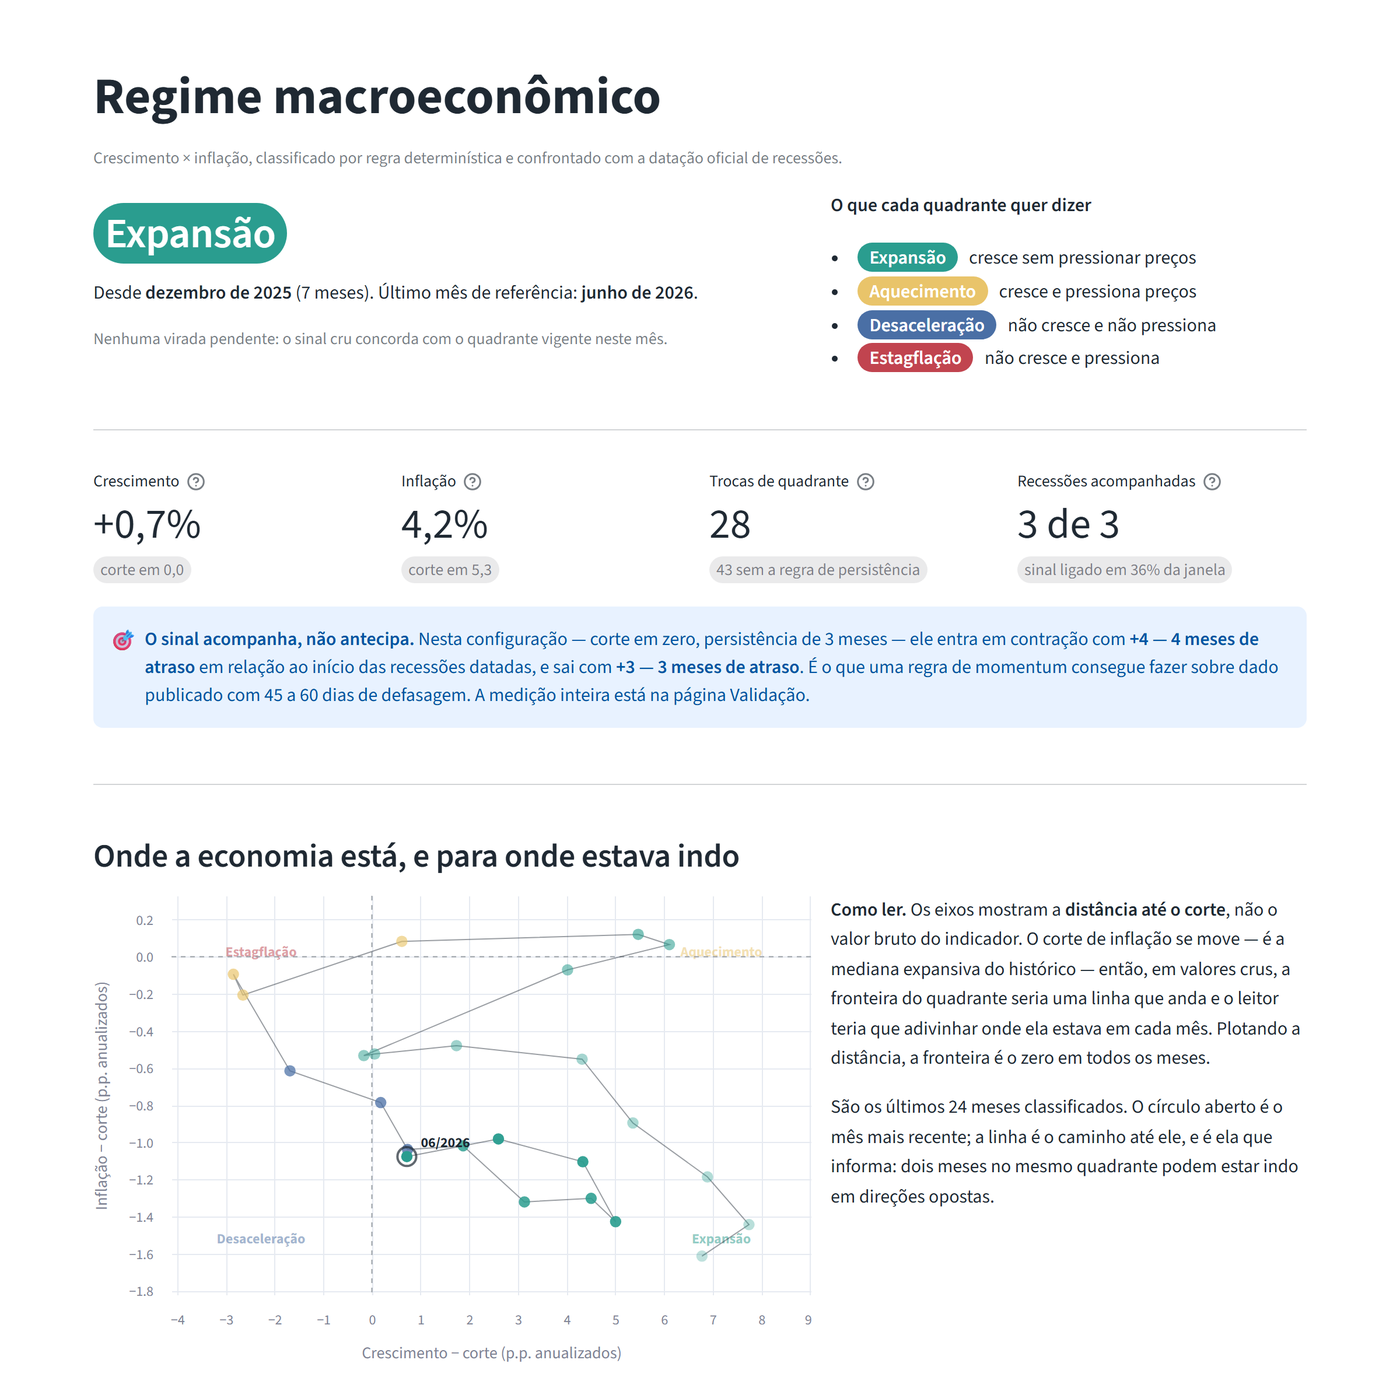
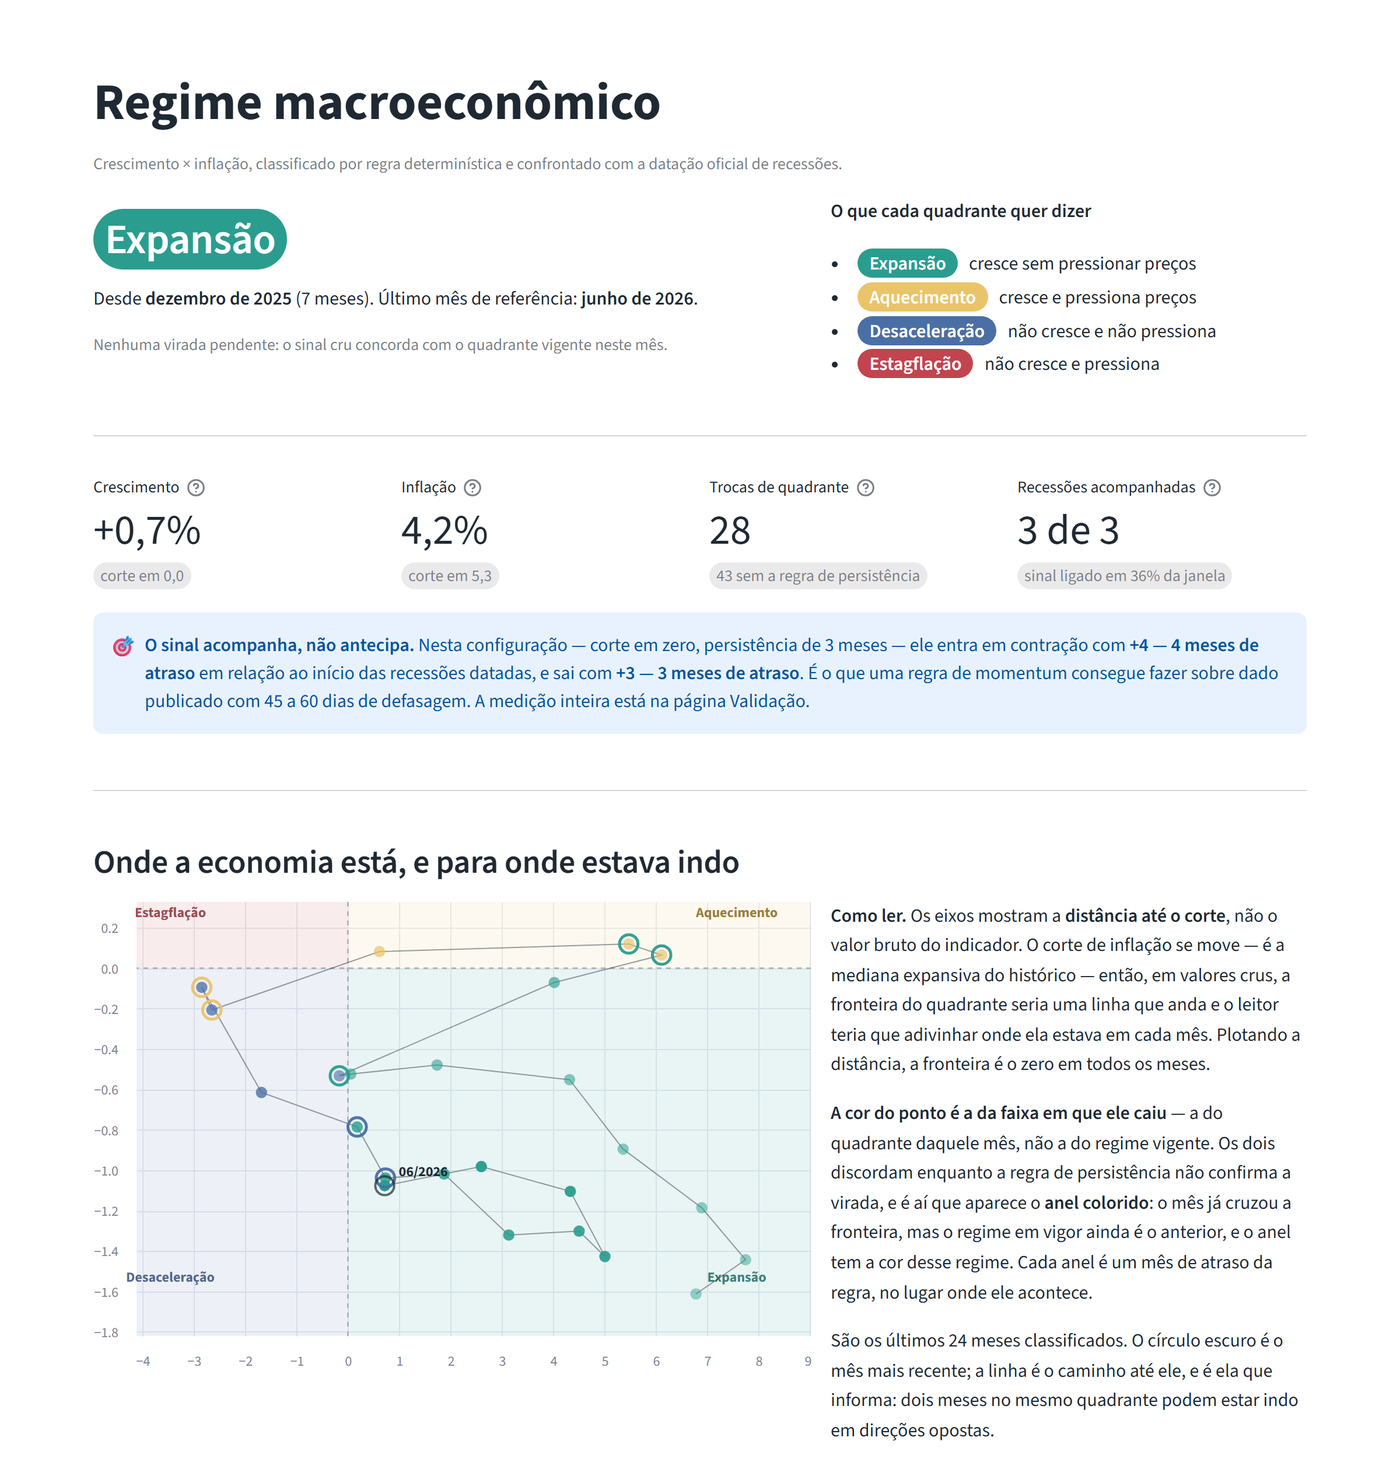
mapa de quadrantes: cor pelo lugar do ponto, regime vigente vira anel
Pintar o ponto pelo quadrante vigente produzia ponto verde dentro da faixa
amarela: abril e maio de 2025 ja estavam do lado de Aquecimento, mas a regra
de persistencia nao tinha confirmado a virada. Os dois valores estavam certos;
a tela dizia as duas coisas ao mesmo tempo sem avisar.

O olho le posicao antes de cor, entao quem cede e a cor. O preenchimento passa
a ser o quadrante_bruto, que e o que a posicao ja afirma, e o regime vigente
volta como anel desenhado so nos meses em que os dois discordam. O defeito de
leitura vira a informacao mais interessante do grafico: cada anel e um mes de
atraso da regra de persistencia, no lugar do plano onde ele aconteceu.

Junto, dois problemas de legibilidade que a discordancia escondia:

- Os quatro quadrantes viram area tingida, em vez de duas linhas tracejadas
  para o leitor intersectar de cabeca.
- O nome do quadrante e recuado por fracao do proprio lado, nao do eixo
  inteiro. Como o eixo de inflacao vive abaixo do corte, a metade de cima e
  uma faixa fina e o recuo antigo punha "Aquecimento" a cinco pixels da linha
  do zero, parecendo a legenda da linha.
- Cor de area nao serve como cor de texto: os nomes ganharam uma paleta
  escurecida, porque o ambar sumia contra o branco.

Dois testes novos, e os dois sao invariantes, nao aparencia: a camada de
pontos precisa usar quadrante_bruto, e cada nome precisa cair dentro do seu
proprio quadrante mesmo com eixos muito assimetricos. Verificado tambem no
[…]

diff --git a/src/ciclo_br/painel/graficos.py b/src/ciclo_br/painel/graficos.py
@@ -13,7 +13,13 @@ tempo compartilhado.
 de inflação se move — é a mediana expansiva do próprio histórico. Com valores
 crus, a fronteira do quadrante seria uma linha que anda e o leitor teria que
 adivinhar onde ela estava em cada mês; com a distância, a fronteira é o zero em
-todos os meses e o quadrante que se vê é o que o classificador diz.
+todos os meses e a posição do ponto diz, sozinha, em que quadrante o mês caiu.
+
+**No mapa, a cor do ponto vem da posição, e não do regime vigente.** As duas
+discordam enquanto a regra de persistência não confirma uma virada, e pintar
+pelo vigente colocava pontos verdes dentro da faixa amarela: a cor
+contradizendo o eixo, que é o que o olho lê primeiro. O regime em vigor voltou
+como anel em volta do ponto, só nos meses em que há discordância.
 """
 
 from __future__ import annotations
@@ -29,6 +35,17 @@ PALETA = {
     "Aquecimento": "#e9c46a",
     "Estagflação": "#c1444f",
     "Desaceleração": "#4a6fa5",
+}
+
+# As mesmas quatro cores escurecidas até terem contraste sobre fundo claro.
+# Cor de área e cor de texto não são a mesma coisa: o âmbar do quadrante lê bem
+# como faixa e some como letra, e era ele que fazia o nome "Aquecimento"
+# desaparecer contra o branco.
+PALETA_TEXTO = {
+    "Expansão": "#1c6f66",
+    "Aquecimento": "#8a6a12",
+    "Estagflação": "#8f2d36",
+    "Desaceleração": "#35507a",
 }
 
 ORDEM = ("Expansão", "Aquecimento", "Desaceleração", "Estagflação")
@@ -156,34 +173,93 @@ def _dominio(valores: pd.Series, *, folga: float = 0.12) -> list[float]:
     return [baixo - margem, alto + margem]
 
 
+def _regioes(limite_x: list[float], limite_y: list[float]) -> pd.DataFrame:
+    """Os quatro quadrantes como área, não como duas linhas para cruzar de cabeça.
+
+    Duas linhas tracejadas obrigam o leitor a intersectar dois sinais para saber
+    onde um ponto caiu. Tingir a região dá a resposta antes da pergunta — e, de
+    quebra, torna impossível esconder uma cor de ponto que discorde do lugar
+    onde ele está.
+    """
+    return pd.DataFrame([
+        {"x": 0.0, "x2": limite_x[1], "y": 0.0, "y2": limite_y[1],
+         "quadrante": "Aquecimento"},
+        {"x": 0.0, "x2": limite_x[1], "y": limite_y[0], "y2": 0.0,
+         "quadrante": "Expansão"},
+        {"x": limite_x[0], "x2": 0.0, "y": 0.0, "y2": limite_y[1],
+         "quadrante": "Estagflação"},
+        {"x": limite_x[0], "x2": 0.0, "y": limite_y[0], "y2": 0.0,
+         "quadrante": "Desaceleração"},
+    ]).assign(cor=lambda d: [PALETA[q] for q in d["quadrante"]])
+
+
+def _recuado(limite: list[float], *, positivo: bool, recuo: float) -> float:
+    """Um ponto dentro da metade pedida do eixo, recuado da borda externa.
+
+    O recuo é fração do **próprio lado**, não do eixo inteiro. Essa distinção
+    não é decorativa: o eixo de inflação passa a maior parte do tempo abaixo do
+    corte, então a metade de cima é uma faixa fina, e recuar pela altura total
+    empurrava "Aquecimento" para cinco pixels da linha do zero. O nome parava de
+    identificar a região e passava a parecer a legenda da linha.
+    """
+    borda = limite[1] if positivo else limite[0]
+    return borda - borda * recuo
+
+
 def _cantos(limite_x: list[float], limite_y: list[float],
-            *, recuo: float = 0.14) -> pd.DataFrame:
-    """Os quatro nomes de quadrante, recuados para dentro dos cantos.
+            *, recuo: float = 0.16) -> pd.DataFrame:
+    """Os quatro nomes de quadrante, recuados para dentro do **seu** quadrante.
 
     Vega-Lite não aceita `align`/`baseline` como canal de codificação, então o
     recuo é feito na posição: cada nome entra um pouco no seu canto e a
     ancoragem padrão (centro) resolve o resto.
     """
-    largura = (limite_x[1] - limite_x[0]) * recuo
-    altura = (limite_y[1] - limite_y[0]) * recuo
-    esquerda, direita = limite_x[0] + largura, limite_x[1] - largura
-    baixo, cima = limite_y[0] + altura, limite_y[1] - altura
+    def ponto(nome: str, *, x: bool, y: bool) -> dict:
+        return {
+            "x": _recuado(limite_x, positivo=x, recuo=recuo),
+            "y": _recuado(limite_y, positivo=y, recuo=recuo),
+            "quadrante": nome,
+            "cor": PALETA_TEXTO[nome],
+        }
+
     return pd.DataFrame([
-        {"x": direita, "y": cima, "quadrante": "Aquecimento"},
-        {"x": direita, "y": baixo, "quadrante": "Expansão"},
-        {"x": esquerda, "y": cima, "quadrante": "Estagflação"},
-        {"x": esquerda, "y": baixo, "quadrante": "Desaceleração"},
+        ponto("Aquecimento", x=True, y=True),
+        ponto("Expansão", x=True, y=False),
+        ponto("Estagflação", x=False, y=True),
+        ponto("Desaceleração", x=False, y=False),
     ])
 
 
 def mapa_de_quadrantes(reg: pd.DataFrame, *, meses: int = 24) -> alt.LayerChart:
     """Os últimos meses no plano crescimento × inflação, em distância ao corte.
 
+    **A cor do ponto é a do quadrante onde ele está, e não a do regime vigente.**
+    Os dois discordam enquanto a regra de persistência não confirma uma virada:
+    o mês já cruzou a fronteira, mas o regime em vigor ainda é o anterior.
+    Pintando pelo vigente, abril e maio de 2025 saíam verdes dentro da faixa
+    amarela — a cor negando o eixo, que é o que o olho lê primeiro, e sem nada na
+    tela dizendo por quê.
+
+    O regime vigente voltou como **anel**, desenhado só nos meses em que os dois
+    discordam. Assim a contradição deixa de ser ruído de leitura e vira a
+    informação mais interessante do gráfico: o anel é o atraso da regra de
+    persistência, visível no lugar onde ele acontece.
+
     O caminho importa mais que o ponto: dois meses no mesmo quadrante podem estar
     indo em direções opostas, e é a trajetória que mostra isso.
     """
     recorte = reg[reg["quadrante"].notna()].tail(meses).copy()
     recorte["rotulo"] = recorte["data"].dt.strftime("%m/%Y")
+    recorte["situacao"] = [
+        "confirmado" if not aguardando else
+        f"{n} mês do novo sinal" if n == 1 else f"{n} meses do novo sinal"
+        for aguardando, n in zip(
+            recorte["pendente"].notna(),
+            recorte["meses_pendente"].fillna(0).astype(int),
+            strict=True,
+        )
+    ]
+    aguardando = recorte[recorte["pendente"].notna()]
     ultimo = recorte.tail(1)
 
     # O domínio é forçado a conter o zero nos dois eixos. Sem isso, um período em
@@ -193,12 +269,25 @@ def mapa_de_quadrantes(reg: pd.DataFrame, *, meses: int = 24) -> alt.LayerChart:
     limite_x = _dominio(recorte["distancia_crescimento"])
     limite_y = _dominio(recorte["distancia_inflacao"])
 
-    fundo = alt.Chart(_cantos(limite_x, limite_y)).mark_text(
-        fontSize=12, opacity=0.5, fontWeight="bold",
+    # As faixas vêm primeiro, e com a escala explícita: são a camada de base do
+    # `layer`, e é delas que as outras herdam o domínio.
+    faixas = alt.Chart(_regioes(limite_x, limite_y)).mark_rect(opacity=0.10).encode(
+        x=alt.X("x:Q", scale=alt.Scale(domain=limite_x, nice=False), title=None),
+        x2=alt.X2("x2:Q"),
+        y=alt.Y("y:Q", scale=alt.Scale(domain=limite_y, nice=False), title=None),
+        y2=alt.Y2("y2:Q"),
+        # `scale=None` usa o hex da própria coluna. Sem escala não há domínio a
+        # conciliar com as outras camadas de cor, que é onde o gráfico empilhado
+        # deste painel já quebrou uma vez.
+        color=alt.Color("cor:N", scale=None, legend=None),
+    )
+
+    nomes = alt.Chart(_cantos(limite_x, limite_y)).mark_text(
+        fontSize=12, fontWeight="bold", opacity=0.85,
     ).encode(
         x=alt.X("x:Q"), y=alt.Y("y:Q"),
         text=alt.Text("quadrante:N"),
-        color=alt.Color("quadrante:N", scale=_escala_quadrante(), legend=None),
+        color=alt.Color("cor:N", scale=None, legend=None),
     )
 
     eixo_x = alt.Chart(pd.DataFrame({"v": [0.0]})).mark_rule(
@@ -214,22 +303,39 @@ def mapa_de_quadrantes(reg: pd.DataFrame, *, meses: int = 24) -> alt.LayerChart:
         order=alt.Order("data:T"),
     )
 
+    dica = [
+        alt.Tooltip("rotulo:N", title="Mês"),
+        alt.Tooltip("quadrante_bruto:N", title="Quadrante do mês"),
+        alt.Tooltip("quadrante:N", title="Regime vigente"),
+        alt.Tooltip("situacao:N", title="Persistência"),
+        alt.Tooltip("eixo_crescimento:Q", title="Crescimento", format=".2f"),
+        alt.Tooltip("eixo_inflacao:Q", title="Inflação", format=".2f"),
+        alt.Tooltip("corte_inflacao:Q", title="Corte de inflação", format=".2f"),
+    ]
+
     pontos = alt.Chart(recorte).mark_circle(size=95).encode(
         x=alt.X("distancia_crescimento:Q",
-                title="Crescimento − corte (p.p. anualizados)",
-                scale=alt.Scale(domain=limite_x, nice=False)),
+                title="Crescimento − corte (p.p. anualizados)"),
         y=alt.Y("distancia_inflacao:Q",
-                title="Inflação − corte (p.p. anualizados)",
-                scale=alt.Scale(domain=limite_y, nice=False)),
+                title="Inflação − corte (p.p. anualizados)"),
+        # Pelo quadrante **do mês**, que é o que a posição já diz. A cor aqui é
+        # redundante de propósito: redundância reforça, contradição confunde.
+        color=alt.Color("quadrante_bruto:N", scale=_escala_quadrante(), legend=None),
+        # A faixa de opacidade não desce abaixo de 0,45: sobre a região tingida,
+        # um ponto a 0,3 perdia a cor e virava um borrão cinza.
+        opacity=alt.Opacity("data:T", legend=None, scale=alt.Scale(range=[0.45, 1])),
+        tooltip=dica,
+    )
+
+    # Só os meses em que o vigente discorda da posição. O anel leva a cor do
+    # regime que ainda está em vigor: o ponto mudou de lado, o crachá não.
+    anel = alt.Chart(aguardando).mark_point(
+        size=250, filled=False, strokeWidth=2.5, opacity=0.95,
+    ).encode(
+        x=alt.X("distancia_crescimento:Q"),
+        y=alt.Y("distancia_inflacao:Q"),
         color=alt.Color("quadrante:N", scale=_escala_quadrante(), legend=None),
-        opacity=alt.Opacity("data:T", legend=None, scale=alt.Scale(range=[0.3, 1])),
-        tooltip=[
-            alt.Tooltip("rotulo:N", title="Mês"),
-            alt.Tooltip("quadrante:N", title="Quadrante"),
-            alt.Tooltip("eixo_crescimento:Q", title="Crescimento", format=".2f"),
-            alt.Tooltip("eixo_inflacao:Q", title="Inflação", format=".2f"),
-            alt.Tooltip("corte_inflacao:Q", title="Corte de inflação", format=".2f"),
-        ],
+        tooltip=dica,
     )
 
     destaque = alt.Chart(ultimo).mark_point(
@@ -245,8 +351,8 @@ def mapa_de_quadrantes(reg: pd.DataFrame, *, meses: int = 24) -> alt.LayerChart:
     )
 
     return alt.layer(
-        fundo, eixo_x, eixo_y, caminho, pontos, destaque, etiqueta
-    ).properties(height=420)
+        faixas, nomes, eixo_x, eixo_y, caminho, pontos, anel, destaque, etiqueta
+    ).resolve_scale(color="independent").properties(height=420)
 
 
 def historico_de_surpresa(tabela: pd.DataFrame, *, desvio: float) -> alt.LayerChart:

diff --git a/tests/test_painel.py b/tests/test_painel.py
@@ -335,3 +335,52 @@ def test_todo_quadrante_tem_cor():
 
     assert set(QUADRANTES.values()) == set(graficos.PALETA)
     assert set(graficos.ORDEM) == set(graficos.PALETA)
+    assert set(graficos.PALETA_TEXTO) == set(graficos.PALETA)
+
+
+def _quadrante_da_posicao(x: float, y: float) -> str:
+    """O quadrante que a posição no plano implica, sem consultar o classificador."""
+    if y > 0:
+        return "Aquecimento" if x > 0 else "Estagflação"
+    return "Expansão" if x > 0 else "Desaceleração"
+
+
+def test_a_cor_do_ponto_nunca_contradiz_o_lado_da_fronteira():
+    """O ponto é pintado pelo quadrante do mês, não pelo regime vigente.
+
+    Os dois discordam enquanto a persistência não confirma uma virada, e pintar
+    pelo vigente produzia ponto verde dentro da faixa amarela: a cor negando o
+    eixo. O olho lê posição antes de cor, então quem cede é a cor.
+    """
+    reg = dados.regime_mensal()
+    grafico = graficos.mapa_de_quadrantes(reg, meses=24)
+    especificacao = grafico.to_dict()
+
+    pintados = [
+        camada for camada in especificacao["layer"]
+        if camada.get("mark", {}).get("type") == "circle"
+    ]
+    assert len(pintados) == 1, "o mapa deveria ter uma única camada de pontos"
+    assert pintados[0]["encoding"]["color"]["field"] == "quadrante_bruto"
+
+    recorte = reg[reg["quadrante"].notna()].tail(24)
+    for _, mes in recorte.iterrows():
+        assert mes["quadrante_bruto"] == _quadrante_da_posicao(
+            mes["distancia_crescimento"], mes["distancia_inflacao"]
+        ), f"{mes['data_referencia']}: a cor cairia fora da faixa onde o ponto está"
+
+
+def test_o_nome_do_quadrante_fica_dentro_do_proprio_quadrante():
+    """O recuo é fração do lado, não do eixo inteiro.
+
+    Com o recuo medido no eixo inteiro, "Aquecimento" ia parar a cinco pixels da
+    linha do zero — nomeando a linha, não a região — porque a metade de cima do
+    eixo de inflação é uma faixa fina. O caso extremo abaixo é justamente esse.
+    """
+    for limite_y in ([-12.0, 0.4], [-0.4, 12.0], [-5.0, 5.0]):
+        cantos = graficos._cantos([-8.0, 3.0], limite_y)
+        for _, nome in cantos.iterrows():
+            assert _quadrante_da_posicao(nome["x"], nome["y"]) == nome["quadrante"], (
+                f"{nome['quadrante']} desenhado fora do seu quadrante "
+                f"com o eixo em {limite_y}"
+            )

diff --git a/src/ciclo_br/painel/paginas/regime.py b/src/ciclo_br/painel/paginas/regime.py
@@ -161,8 +161,14 @@ def _mapa() -> None:
             f"quadrante seria uma linha que anda e o leitor teria que adivinhar "
             f"onde ela estava em cada mês. Plotando a distância, a fronteira é o "
             f"zero em todos os meses.\n\n"
+            f"**A cor do ponto é a da faixa em que ele caiu** — a do quadrante "
+            f"daquele mês, não a do regime vigente. Os dois discordam enquanto a "
+            f"regra de persistência não confirma a virada, e é aí que aparece o "
+            f"**anel colorido**: o mês já cruzou a fronteira, mas o regime em "
+            f"vigor ainda é o anterior, e o anel tem a cor desse regime. Cada "
+            f"anel é um mês de atraso da regra, no lugar onde ele acontece.\n\n"
             f"São os últimos {MESES_NO_MAPA} meses classificados. O círculo "
-            f"aberto é o mês mais recente; a linha é o caminho até ele, e é ela "
+            f"escuro é o mês mais recente; a linha é o caminho até ele, e é ela "
             f"que informa: dois meses no mesmo quadrante podem estar indo em "
             f"direções opostas."
         )

diff --git a/src/ciclo_br/artefatos.py b/src/ciclo_br/artefatos.py
@@ -105,8 +105,12 @@ def regime_mensal() -> pd.DataFrame:
     mediana expansiva do próprio histórico. Num gráfico de quadrantes com eixos
     crus, a fronteira seria uma linha que anda, e o leitor teria que adivinhar
     onde ela estava em cada mês. Plotando a distância, a fronteira é o zero em
-    todos os meses, e o quadrante que se vê é exatamente o que o classificador
-    diz.
+    todos os meses, e a posição do ponto diz sozinha em que quadrante o mês caiu.
+
+    Atenção ao que essa posição **não** diz: ela corresponde ao `quadrante_bruto`,
+    o sinal do mês. O `quadrante` vigente pode ser outro, porque a regra de
+    persistência segura a virada até ela se confirmar. Quem desenha precisa
+    escolher qual dos dois está pintando, e dizer qual escolheu.
     """
     reg = regime()
     return reg.assign(

diff --git a/docs/metodologia.md b/docs/metodologia.md
@@ -613,15 +613,44 @@ painel escolhe a linha da varredura que corresponde ao classificador em uso, em
 vez de assumir; sem isso, ele poderia exibir a defasagem de uma configuração que
 não é a que gerou os quadrantes ao lado.
 
-### 8.3 Três decisões de gráfico que não são estéticas
+### 8.3 Quatro decisões de gráfico que não são estéticas
 
 **O mapa de quadrantes plota distância ao corte, não o valor do eixo.** O corte
 de inflação se move — é a mediana expansiva do próprio histórico. Com valores
 crus, a fronteira do quadrante seria uma linha que anda e o leitor teria que
 adivinhar onde ela estava em cada mês. Plotando a distância, a fronteira é o zero
-em todos os meses, e o quadrante que se vê é exatamente o que o classificador
-diz. O domínio é forçado a conter o zero nos dois eixos, para que a fronteira
-esteja sempre à vista.
+em todos os meses, e a posição do ponto diz sozinha em que quadrante o mês caiu.
+O domínio é forçado a conter o zero nos dois eixos, para que a fronteira esteja
+sempre à vista.
+
+**No mapa, o ponto é pintado pelo quadrante do mês, e o regime vigente virou um
+anel.** A primeira versão pintava pelo vigente, e o resultado foi um gráfico com
+pontos verdes dentro da faixa amarela: abril e maio de 2025 já estavam do lado de
+Aquecimento, mas a regra de persistência ainda não tinha confirmado a virada, e o
+regime em vigor continuava sendo Expansão. Os dois valores estavam certos; a tela
+é que dizia as duas coisas ao mesmo tempo sem avisar.
+
+A correção segue uma ordem de precedência que vale além deste gráfico: **o olho
+lê posição antes de cor**, então quem cede é a cor. O preenchimento passou a ser
+o `quadrante_bruto`, que é exatamente o que a posição já afirma — redundância
+deliberada, porque redundância reforça e contradição confunde. O `quadrante`
+vigente voltou como anel em volta do ponto, desenhado só nos meses em que os dois
+discordam. Com isso o defeito de leitura virou a informação mais interessante do
+gráfico: cada anel é um mês de atraso da regra de persistência, marcado no lugar
+do plano onde esse atraso aconteceu. É a mesma defasagem que a seção 7 mede em
+tabela, aqui visível sem tabela nenhuma.
+
+Junto veio o conserto de dois problemas de legibilidade que a discordância de
+cores escondia. Os quatro quadrantes agora são **áreas tingidas**, e não duas
+linhas tracejadas para o leitor intersectar de cabeça — o que também torna
+impossível esconder uma cor de ponto que discorde da faixa onde ele está. E o
+nome de cada quadrante é recuado por uma fração do **próprio lado**, não do eixo
+inteiro: como o eixo de inflação passa quase todo o tempo abaixo do corte, a
+metade de cima é uma faixa fina, e o recuo medido no eixo inteiro punha
+"Aquecimento" a cinco pixels da linha do zero. O nome parava de identificar a
+região e passava a parecer a legenda da linha. Há teste travando os dois: que a
+camada de pontos use `quadrante_bruto`, e que cada nome caia dentro do seu
+próprio quadrante mesmo com eixos muito assimétricos.
 
 **Os dois eixos não dividem a mesma escala.** O momentum de crescimento foi de
 −38 a +40 na covid; o eixo de inflação vive entre 0 e 13. Num gráfico só, a
@@ -784,3 +813,5 @@ sido publicado naquela data.
 | 2026-09-13 | Portão de CI audita o texto publicado contra os próprios fatos | o texto não é reproduzível, mas a promessa sobre ele é (seção 9.5) |
 | 2026-09-13 | Reconstrução de data passada nunca é gravada em `data/briefings/` | pareceria, no dia seguinte, um briefing publicado naquela data (seção 9.6) |
 | 2026-09-13 | Camada de leitura de artefatos movida para fora do painel | painel e briefing precisam ler os arquivos pelo mesmo código (seção 8.1) |
+| 2026-09-13 | Ponto do mapa pintado pelo quadrante do mês, regime vigente vira anel | o olho lê posição antes de cor; pintar pelo vigente punha ponto verde na faixa amarela (seção 8.3) |
+| 2026-09-13 | Quadrantes desenhados como área tingida, e nome recuado pelo próprio lado | com o recuo medido no eixo inteiro, "Aquecimento" ficava a cinco pixels da linha do zero (seção 8.3) |
